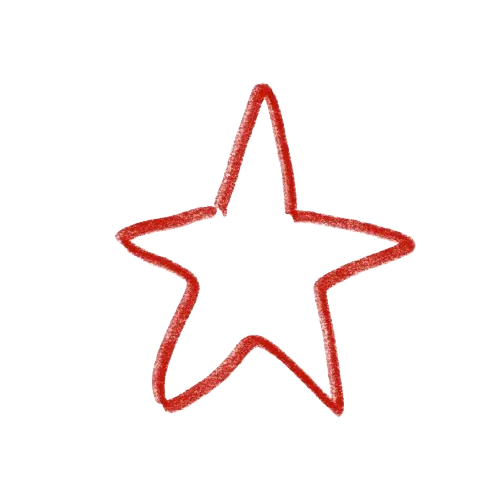
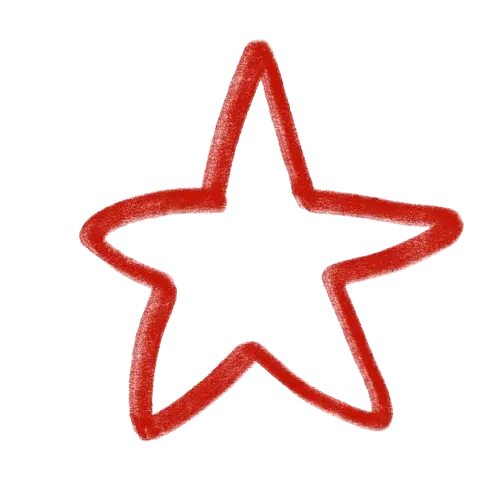
nyforside

Changed region(s): [[0.15, 0.06, 0.93, 0.9]]

diff --git a/portfolio.html b/portfolio.html
@@ -50,13 +50,13 @@
         <div class="portfolio_1">
             <div class="portfolio1_1">
                 <div>
-                    <a href="02_web.html" target="_blank"> <img src="img/start_knap.webp" alt="koala med computer"
+                    <a href="02_web.html"> <img src="img/start_knap.webp" alt="koala med computer"
                             class="portfoliokoala" width="400" height="400">
                     </a>
 
                 </div>
                 <div>
-                    <a href="02_web.html" target="_blank">
+                    <a href="02_web.html">
                         <h2>Studiestartsprøve</h2>
                     </a>
                 </div>
@@ -64,10 +64,10 @@
             </div>
             <div class="portfolio1_2">
                 <div>
-                    <a href="03_ux.html" target="_blank"> <img src="img/ux_knap.webp" alt="tegne koala" width="400"
+                    <a href="03_ux.html"> <img src="img/ux_knap.webp" alt="tegne koala" width="400"
                             class="portfoliokoala" height="400">
                     </a>
-                    <a href="03_ux.html" target="_blank">
+                    <a href="03_ux.html">
                         <h2>UI/UX</h2>
                     </a>
 
@@ -80,13 +80,13 @@
 
             <div class="portfolio1_3">
                 <div>
-                    <a href="04_animation.html" target="_blank"> <img src="img/spilknap.webp" alt="koala med spil"
+                    <a href="04_animation.html"> <img src="img/spilknap.webp" alt="koala med spil"
                             class="portfoliokoala" width="400" height="400">
                     </a>
 
                 </div>
                 <div>
-                    <a href="04_animation.html" target="_blank">
+                    <a href="04_animation.html">
                         <h2>Animation</h2>
                     </a>
                 </div>
@@ -94,14 +94,14 @@
             </div>
             <div class="portfolio1_4">
                 <div>
-                    <a href="05_indhold.html" target="_blank"> <img src="img/indholdknap.webp" alt="foto koala"
-                            class="portfoliokoala" width="400" height="400">
+                    <a href="05_indhold.html"> <img src="img/indholdknap.webp" alt="foto koala" class="portfoliokoala"
+                            width="400" height="400">
                     </a>
 
                 </div>
 
                 <div>
-                    <a href="05_indhold.html" target="_blank">
+                    <a href="05_indhold.html">
                         <h2>Indhold</h2>
                     </a>
 

diff --git a/index.html b/index.html
@@ -46,7 +46,7 @@
     </header>
     <main>
         <div class="forside">
-            <img src="img/forsidep.webp" alt="forside" width="1100">
+            <img src="img/forside.webp" alt="forside" width="1100">
             <div class="forside_tekst">
                 <h1>Portfolio 2023 - Freja Håkonsen</h1>
 
@@ -81,8 +81,8 @@
             </div>
             <div class="forside1_2">
                 <div>
-                    <a href="om_mig.html" target="_blank"> <img src="img/ux_knap.webp" alt="tegne koala"
-                            class="portfoliokoala" width="400" height="400">
+                    <a href="om_mig.html"> <img src="img/ux_knap.webp" alt="tegne koala" class="portfoliokoala"
+                            width="400" height="400">
                     </a>
                     <div>
                         <a href="om_mig.html" class="knap">

diff --git a/style.css b/style.css
@@ -64,21 +64,21 @@ p {
 .hoppestjerne {
   z-index: 1;
   top: 20%;
-  left: 40%;
+  left: 35%;
   position: absolute;
   cursor: pointer;
   animation-name: pulse_kf;
-  animation-duration: 0.9s;
+  animation-duration: 1s;
   animation-direction: alternate;
   animation-iteration-count: infinite;
   animation-timing-function: linear;
 }
 @keyframes pulse_kf {
-  80% {
-    scale: 0.9;
+  100% {
+    scale: 0.8;
   }
   100% {
-    scale: 0.9;
+    scale: 0.8;
   }
 }
 
@@ -92,11 +92,11 @@ p {
 /*****OM****/
 
 .om_tekst {
-  margin-left: 18%;
-  top: 9.5%;
+  margin-left: 17.2%;
+  top: 8.5%;
   position: relative;
 
-  font-size: 0.94srem;
+  font-size: 0.94rem;
   font-family: "Lato", sans-serif;
   line-height: 2;
 }
@@ -360,7 +360,7 @@ header {
 }
 
 .logo img {
-  width: 70px;
+  width: 90px;
 }
 
 .menu {

diff --git a/mobil.css b/mobil.css
@@ -127,6 +127,7 @@
   .hoppestjerne {
     width: 15%;
     top: 13%;
+    margin-left: -3%;
   }
 
   .web_grid {
